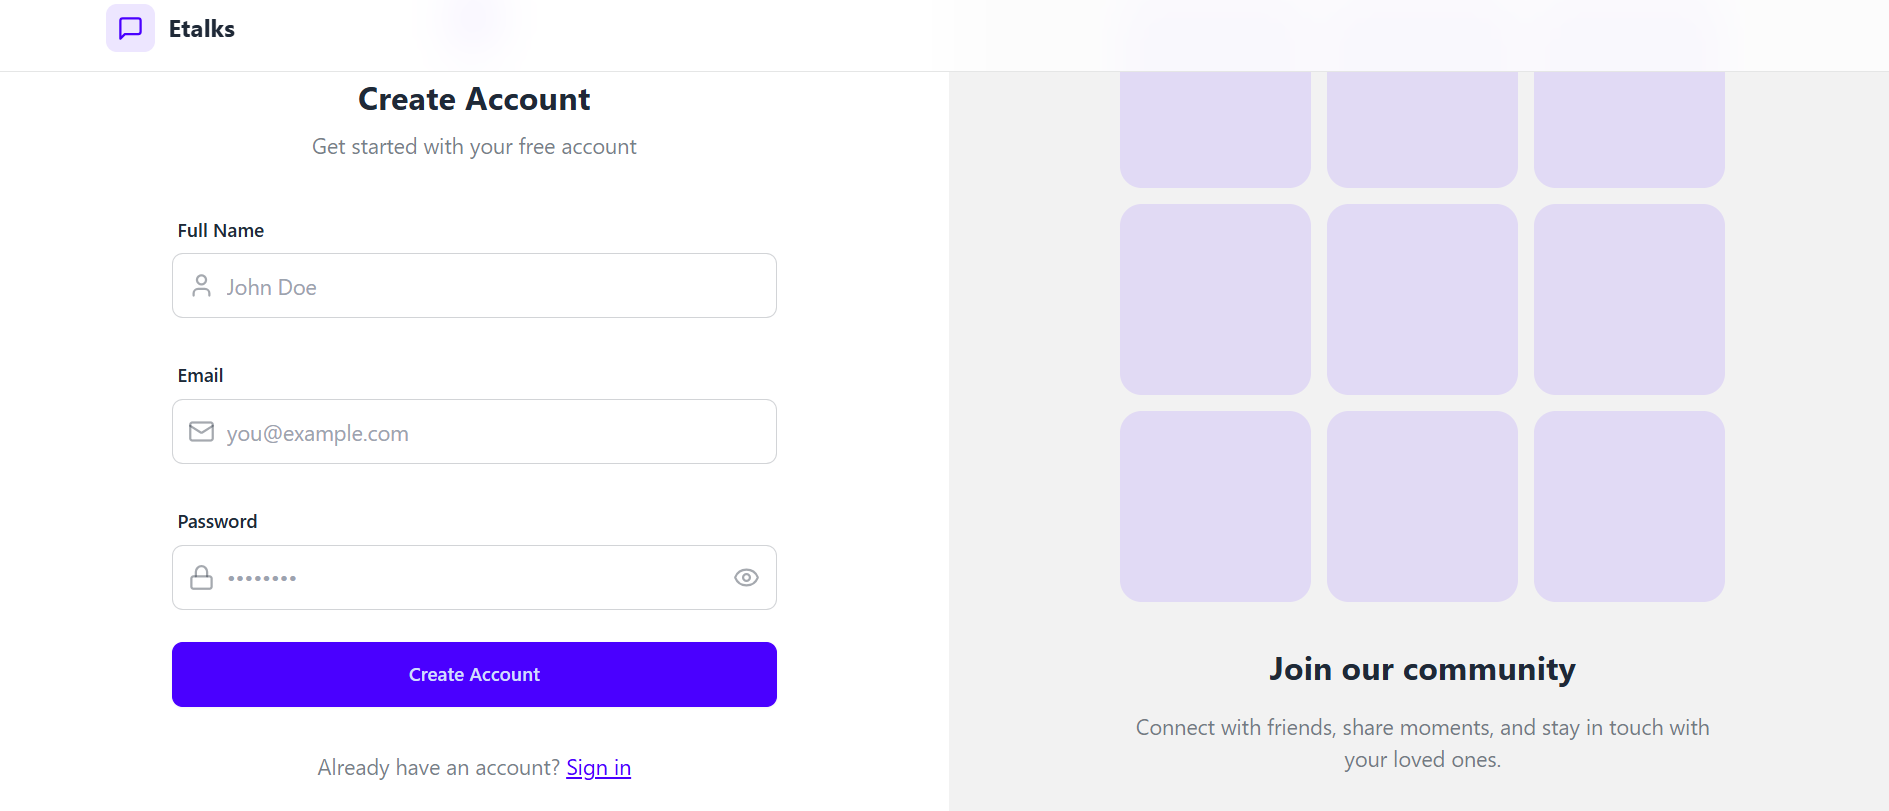
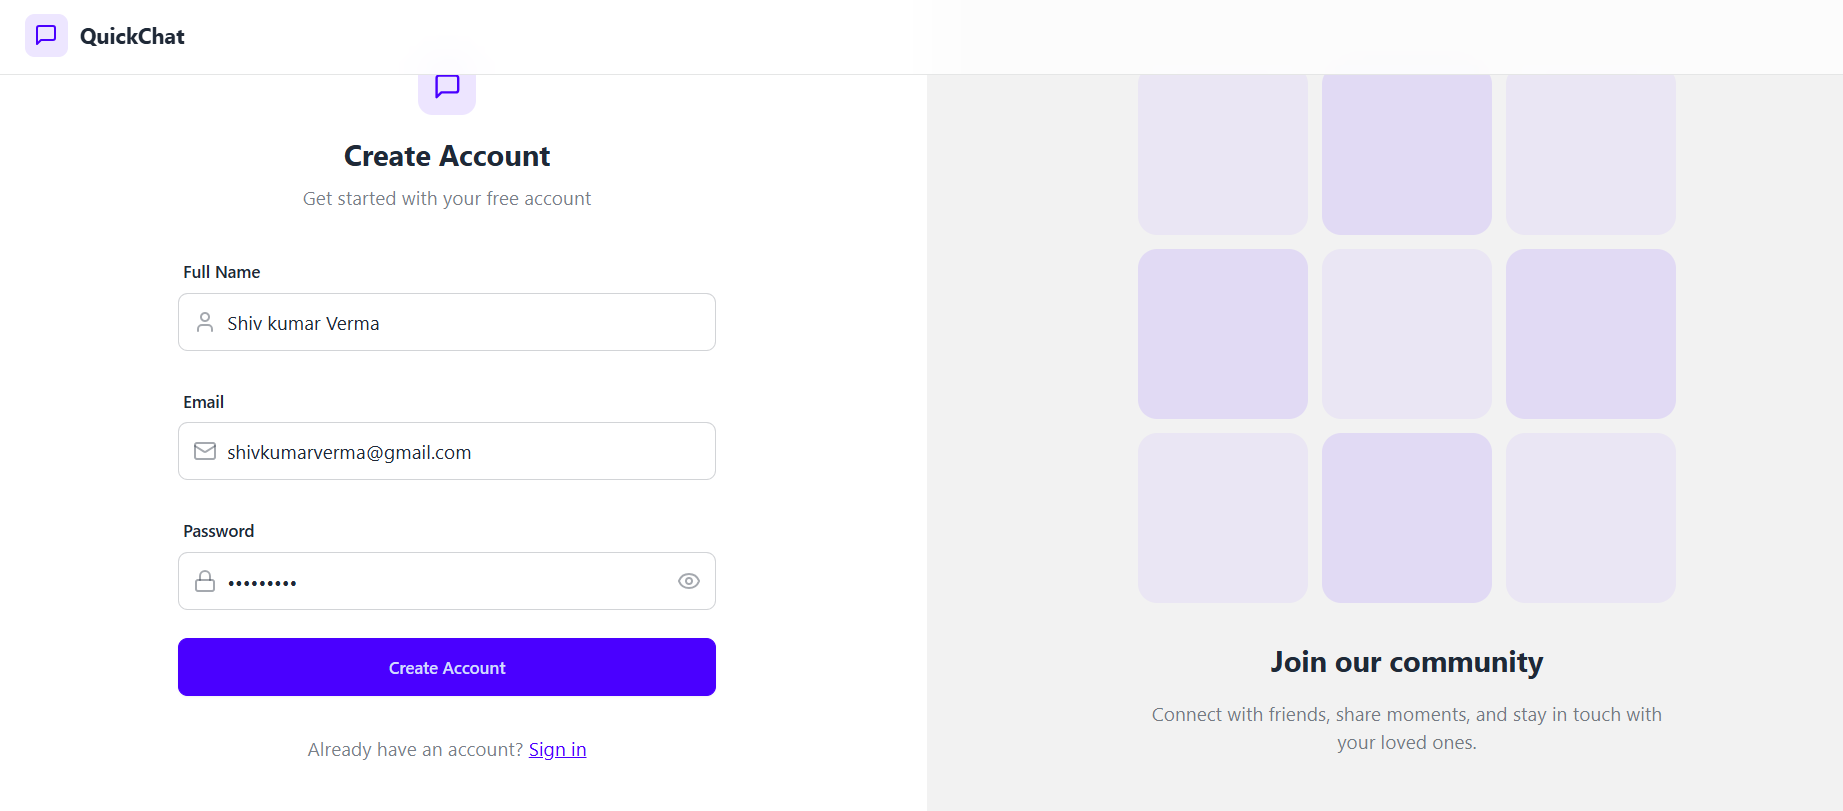
readme changed

diff --git a/README.md b/README.md
@@ -21,7 +21,7 @@ A modern, real-time chat application built with ❤ using cutting-edge web te
 ![Login Screenshot](./screenshots/Login.png)
 
 ### 🔐 Sign Up  
-![Sign up Screenshot](./screenshots/Login.png)
+![Sign up Screenshot](./screenshots/Signup.png)
 
 ### 💬 Chat Interface  
 ![Chat Interface Screenshot](./screenshots/chat.png)
